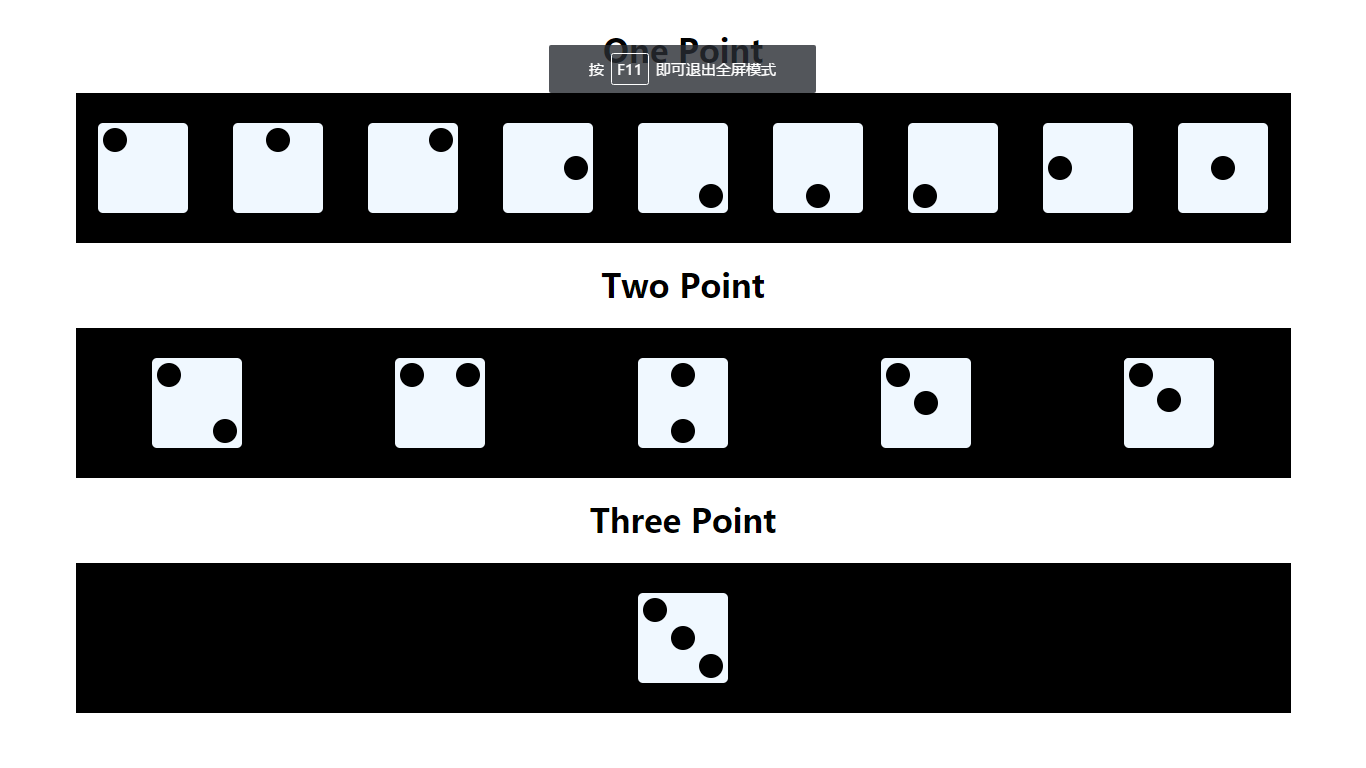
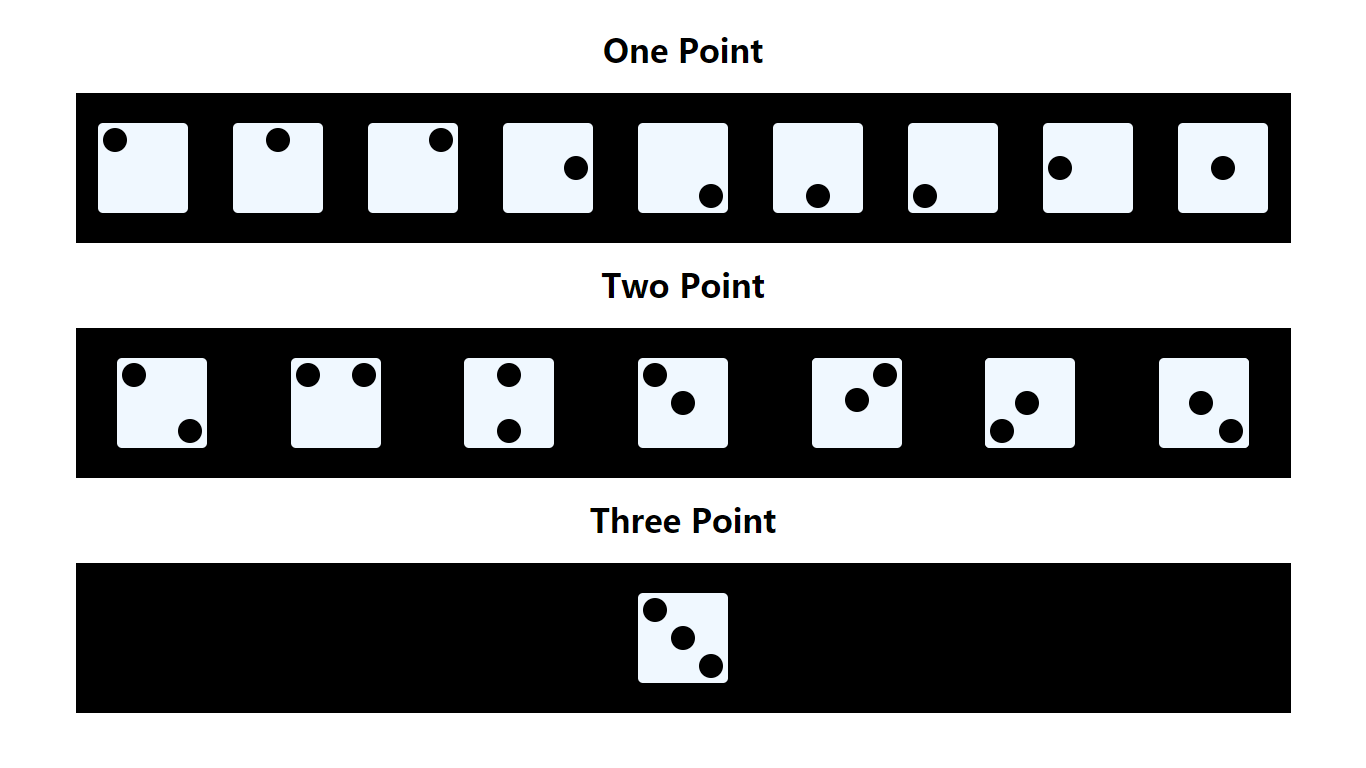
full two points

diff --git a/demo.html b/demo.html
@@ -56,11 +56,27 @@
                     <span class="item17"></span>
                 </div>
                 <div class="mid-left-up" style="display: block">
-                    <div class="top" style="height: 30px;display: flex;justify-content: flex-start;">
-                        <span style="margin-left: 5px;margin-top: 5px;"></span>
+                    <div class="top" style="height: 30px;display: flex;justify-content: flex-end;">
+                        <span style="margin-right: 5px;margin-top: 5px;"></span>
                     </div>
                     <div class="mid" style="height: 30px;;display: flex;justify-content: center">
                         <span></span>
+                    </div>
+                </div>
+                <div class="mid-bottom-left" style="display: flex;flex-direction: row">
+                    <div class="mid" style="display: flex;width: 30px;height: 100%;flex-direction: column;justify-content: flex-end;">
+                        <span style="margin-left: 5px;margin-bottom: 5px;"></span>
+                    </div>
+                    <div class="left" style="display: flex;width: 30px;height: 100%;flex-direction: column;justify-content: center;">
+                        <span></span>
+                    </div>
+                </div>
+                <div class="bottom-mid-right" style="display:flex;flex-direction: row">
+                    <div style="display: flex;flex-direction: column;justify-content: center;width: 30px;height: 100%;margin-left: 30px">
+                        <span></span>
+                    </div>
+                    <div style="display: flex;flex-direction: column;justify-content: flex-end;width: 30px;height: 100%;">
+                        <span style="margin-bottom: 5px;margin-right: 5px;"></span>
                     </div>
                 </div>
             </div>
